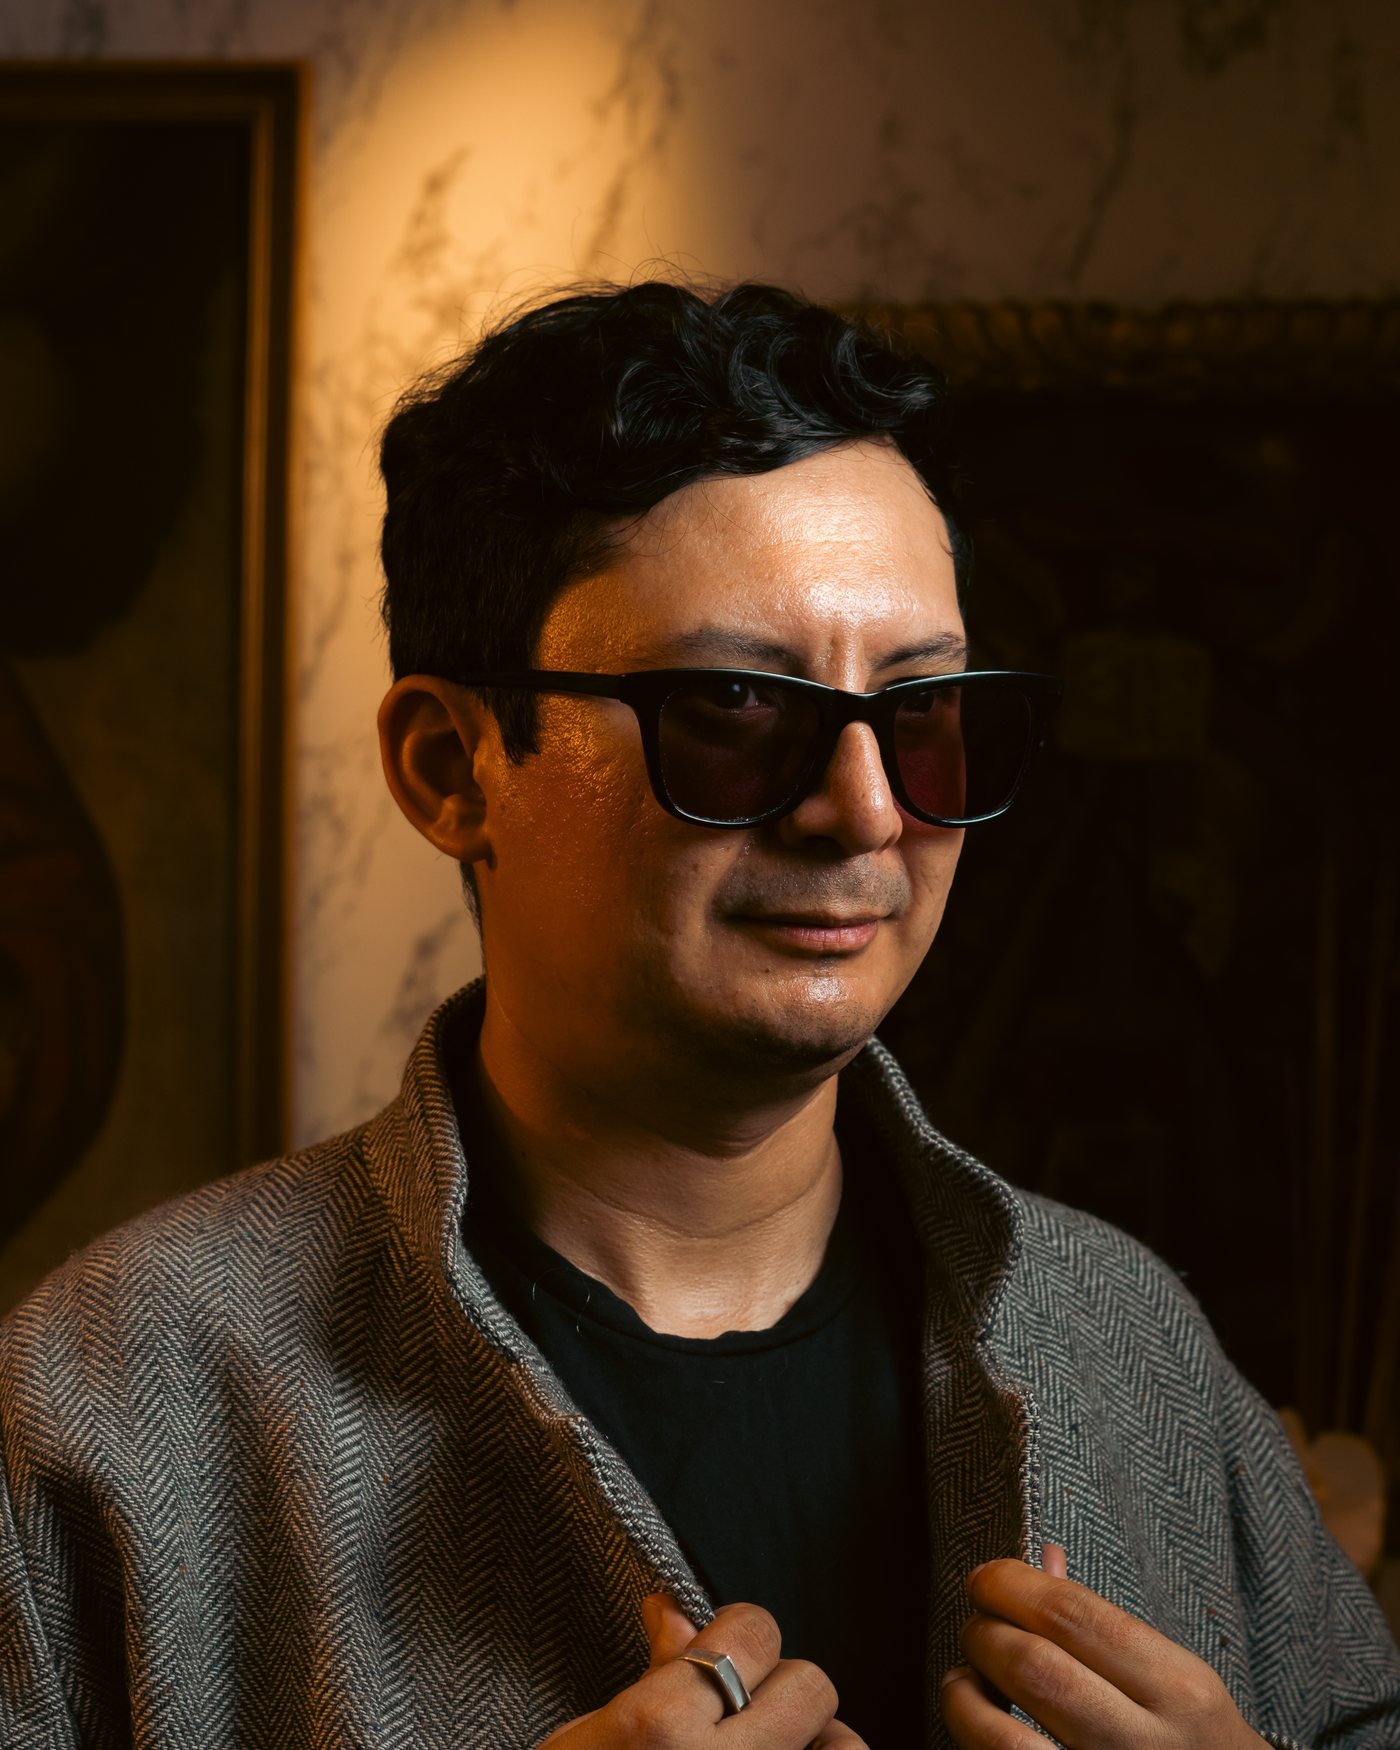
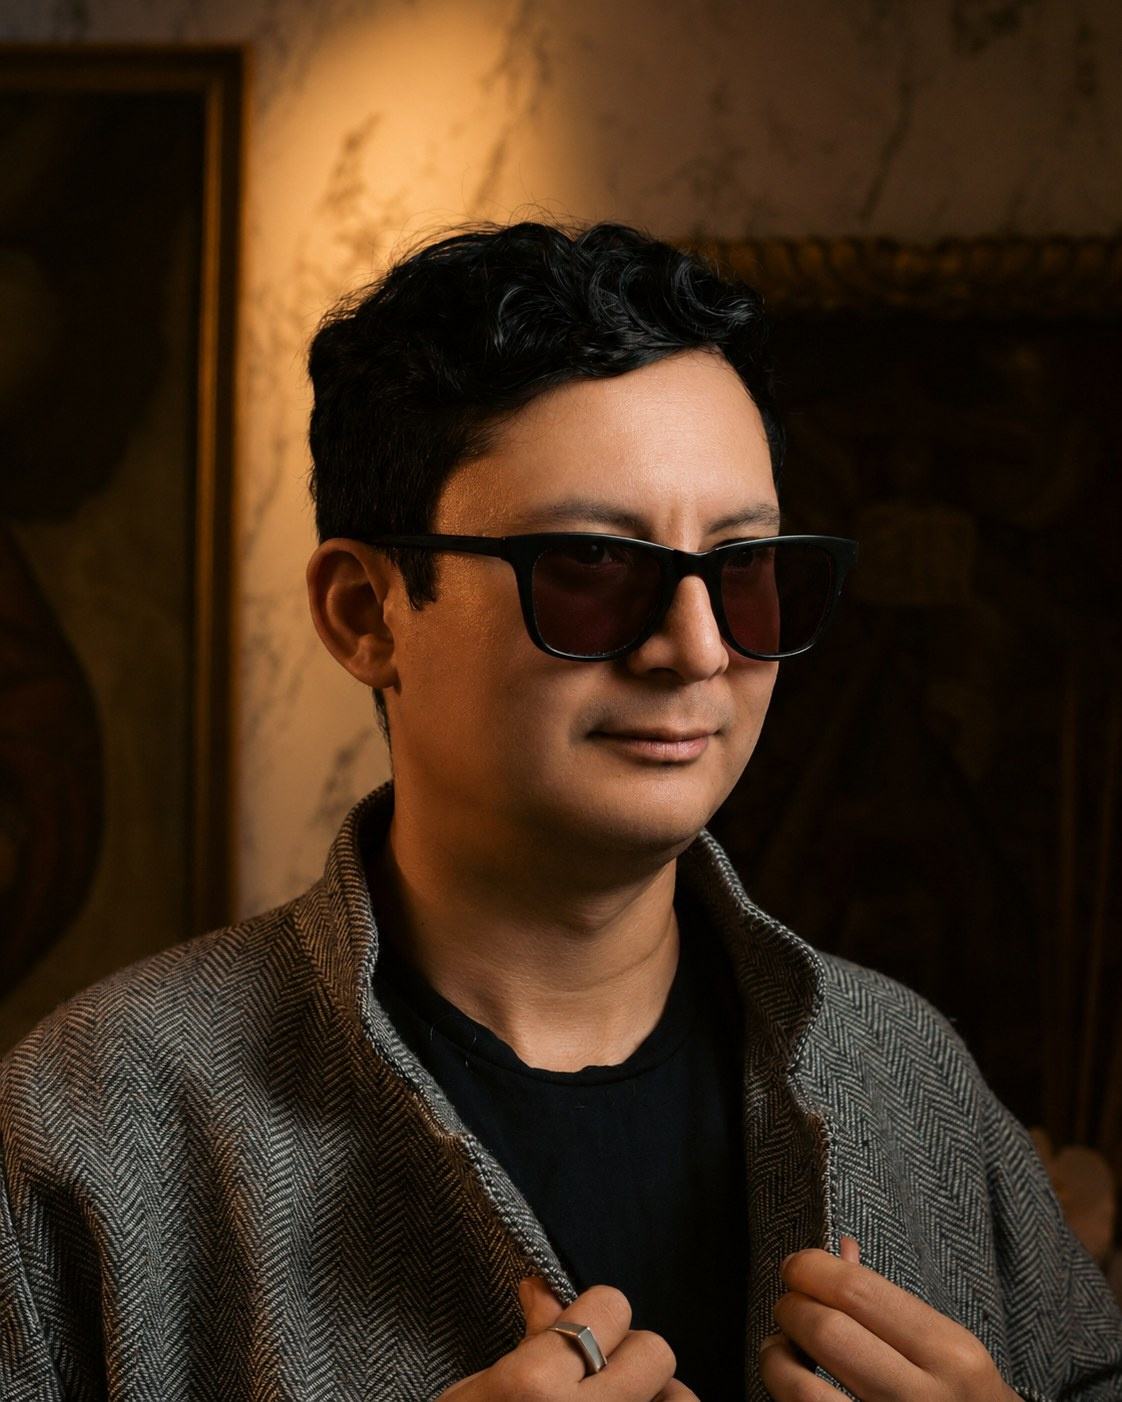
Gian pone cara nueva, y el estudio celular, domicilio legal y redes
Cuatro datos que hasta ahora eran de relleno pasan a ser los reales.

FOTO DEL FUNDADOR. Entra el retrato nuevo que paso el estudio
(Nosotros_Gian-Jimenez_Fundador.png) en img/gian.jpg, que es el nombre que
pide src("gian") en app.js. El original llega en PNG de 2,2 MB y se convierte
a JPEG de calidad 88, progresivo: 238 KB, en la linea de los 290 KB que
pesaba el anterior. Llega a 1122x1402, o sea 4:5 clavado, que es justo el
aspect-ratio que declara .fu-foto, asi que el object-fit:cover no recorta
nada y el encuadre se respeta entero.

CELULAR. El +51 900 000 000 del bloque de contacto era un marcador de
posicion. Pasa a +51 920 775 559 y ademas se vuelve pulsable contra
wa.me/51920775559: el dato estaba bajo el rotulo WhatsApp y no llevaba a
WhatsApp. Se subraya en oro solo al pasar por encima, sin cambiarle el color,
para no romper la columna de datos.

DOMICILIO LEGAL. Ca. Las Bellisimas 170, Urb. Vipol, Callao 07036 entra en el
colofon del pie y en ningun otro sitio. Es un dato registral, no una
direccion de visita, asi que no toca el bloque Oficina de Contacto ni la
linea del pie ni la cinta de avisos, que siguen diciendo Av. Arenales, Lince,
y no lleva enlace a mapas: nadie deberia acabar en Callao buscando el
estudio. Sale de la caja alta del colofon con .colo-legal, porque una
direccion en versalitas apretadas no hay quien la lea.

REDES. Instagram y TikTok dejan de apuntar a "#". Se guardan las direcciones
[…]

diff --git a/css/giandeco.css b/css/giandeco.css
@@ -923,6 +923,12 @@ h1,h2,h3,h4{
 .cont-datos dd{margin:0;font-family:var(--display);font-size:1.3rem;font-weight:var(--peso-display);color:var(--txt)}
 .cont-datos dd small{display:block;font-family:var(--sans);font-size:var(--t-sm);color:var(--txt3);
   letter-spacing:0;margin-top:.2rem}
+/* El WhatsApp es lo unico pulsable de la lista: se subraya al pasar por
+   encima para que se note, sin pintarlo de otro color y romper la columna. */
+.cont-datos dd .dato-enlace{text-decoration:underline;text-decoration-color:transparent;
+  text-underline-offset:.18em;transition:text-decoration-color .2s}
+.cont-datos dd .dato-enlace:hover,
+.cont-datos dd .dato-enlace:focus-visible{text-decoration-color:var(--oro)}
 
 /* ---------- 14. producto ------------------------------------------------- */
 
@@ -1356,6 +1362,10 @@ footer{border-top:1px solid var(--line);background:var(--bg2);margin-top:clamp(3
 .colo{display:flex;align-items:center;justify-content:space-between;gap:1.2rem;flex-wrap:wrap;
   padding-block:1.4rem;border-top:1px solid var(--line2);
   font-family:var(--sans);font-size:var(--t-xs);letter-spacing:.14em;color:var(--txt3);text-transform:uppercase}
+/* El domicilio legal es un dato registral, no un reclamo: sale de la caja
+   alta y del espaciado del colofon porque una direccion en versalitas
+   apretadas no se lee, y esta justamente para poder leerse. */
+.colo-legal{text-transform:none;letter-spacing:.02em}
 
 /* ---------- 23. barra de progreso ---------------------------------------- */
 
@@ -1963,4 +1973,5 @@ footer{border-top:1px solid var(--line);background:var(--bg2);margin-top:clamp(3
 #v-cat.campana .pc{background:var(--lienzo-camp)}
 #v-cat.campana .pc .pr{color:var(--oro)}
 #v-cat.campana .sub-c[aria-pressed="true"]{border-color:var(--verde)}
-
+
+

diff --git a/claro.html b/claro.html
@@ -12,7 +12,7 @@
 <link rel="preconnect" href="https://fonts.googleapis.com" />
 <link rel="preconnect" href="https://fonts.gstatic.com" crossorigin />
 <link rel="stylesheet" href="https://fonts.googleapis.com/css2?family=Cormorant+Garamond:wght@300;400;500;600&family=Inter:wght@400;500;600&display=swap" />
-<link rel="stylesheet" href="css/giandeco.css?v=6c3746eb" />
+<link rel="stylesheet" href="css/giandeco.css?v=4cc71e6b" />
 </head>
 <body>
 
@@ -751,7 +751,7 @@
         </div>
         <div>
           <dt>WhatsApp</dt>
-          <dd>+51 900 000 000<small>Lunes a sábado, 9 a 19 h</small></dd>
+          <dd><a class="dato-enlace" href="https://wa.me/51920775559" target="_blank" rel="noopener noreferrer">+51 920 775 559</a><small>Lunes a sábado, 9 a 19 h</small></dd>
         </div>
         <div>
           <dt>Profesionales</dt>
@@ -803,6 +803,7 @@
     </div>
     <div class="colo">
       <span>© 2026 Giandeco Studio Design</span>
+      <span class="colo-legal">Domicilio legal: Ca. Las Bellísimas 170, Urb. Vipol, Callao 07036, Perú</span>
       <span>Maqueta de presentación — precios y fichas de ejemplo</span>
     </div>
   </div>
@@ -820,7 +821,7 @@
   </div>
 </aside>
 
-<script src="js/datos.js?v=6c3746eb"></script>
-<script src="js/app.js?v=6c3746eb"></script>
+<script src="js/datos.js?v=4cc71e6b"></script>
+<script src="js/app.js?v=4cc71e6b"></script>
 </body>
 </html>

diff --git a/index.html b/index.html
@@ -12,7 +12,7 @@
 <link rel="preconnect" href="https://fonts.googleapis.com" />
 <link rel="preconnect" href="https://fonts.gstatic.com" crossorigin />
 <link rel="stylesheet" href="https://fonts.googleapis.com/css2?family=Cormorant+Garamond:wght@300;400;500;600&family=Inter:wght@400;500;600&display=swap" />
-<link rel="stylesheet" href="css/giandeco.css?v=6c3746eb" />
+<link rel="stylesheet" href="css/giandeco.css?v=4cc71e6b" />
 </head>
 <body>
 
@@ -751,7 +751,7 @@
         </div>
         <div>
           <dt>WhatsApp</dt>
-          <dd>+51 900 000 000<small>Lunes a sábado, 9 a 19 h</small></dd>
+          <dd><a class="dato-enlace" href="https://wa.me/51920775559" target="_blank" rel="noopener noreferrer">+51 920 775 559</a><small>Lunes a sábado, 9 a 19 h</small></dd>
         </div>
         <div>
           <dt>Profesionales</dt>
@@ -803,6 +803,7 @@
     </div>
     <div class="colo">
       <span>© 2026 Giandeco Studio Design</span>
+      <span class="colo-legal">Domicilio legal: Ca. Las Bellísimas 170, Urb. Vipol, Callao 07036, Perú</span>
       <span>Maqueta de presentación — precios y fichas de ejemplo</span>
     </div>
   </div>
@@ -820,7 +821,7 @@
   </div>
 </aside>
 
-<script src="js/datos.js?v=6c3746eb"></script>
-<script src="js/app.js?v=6c3746eb"></script>
+<script src="js/datos.js?v=4cc71e6b"></script>
+<script src="js/app.js?v=4cc71e6b"></script>
 </body>
 </html>

diff --git a/oscuro.html b/oscuro.html
@@ -12,7 +12,7 @@
 <link rel="preconnect" href="https://fonts.googleapis.com" />
 <link rel="preconnect" href="https://fonts.gstatic.com" crossorigin />
 <link rel="stylesheet" href="https://fonts.googleapis.com/css2?family=Cormorant+Garamond:wght@300;400;500;600&family=Inter:wght@400;500;600&display=swap" />
-<link rel="stylesheet" href="css/giandeco.css?v=6c3746eb" />
+<link rel="stylesheet" href="css/giandeco.css?v=4cc71e6b" />
 </head>
 <body>
 
@@ -751,7 +751,7 @@
         </div>
         <div>
           <dt>WhatsApp</dt>
-          <dd>+51 900 000 000<small>Lunes a sábado, 9 a 19 h</small></dd>
+          <dd><a class="dato-enlace" href="https://wa.me/51920775559" target="_blank" rel="noopener noreferrer">+51 920 775 559</a><small>Lunes a sábado, 9 a 19 h</small></dd>
         </div>
         <div>
           <dt>Profesionales</dt>
@@ -803,6 +803,7 @@
     </div>
     <div class="colo">
       <span>© 2026 Giandeco Studio Design</span>
+      <span class="colo-legal">Domicilio legal: Ca. Las Bellísimas 170, Urb. Vipol, Callao 07036, Perú</span>
       <span>Maqueta de presentación — precios y fichas de ejemplo</span>
     </div>
   </div>
@@ -820,7 +821,7 @@
   </div>
 </aside>
 
-<script src="js/datos.js?v=6c3746eb"></script>
-<script src="js/app.js?v=6c3746eb"></script>
+<script src="js/datos.js?v=4cc71e6b"></script>
+<script src="js/app.js?v=4cc71e6b"></script>
 </body>
 </html>

diff --git a/js/datos.js b/js/datos.js
@@ -752,13 +752,13 @@ var AVISOS = [
    de 1.3, remates redondos— en vez de pegar los logotipos oficiales, que
    llegan cada uno con su peso y su relleno y ensucian el pie.
 
-   Las direcciones están pendientes: hay que pedírselas al estudio.
+   Facebook queda fuera hasta que el estudio pase su dirección: un icono que
+   no lleva a ninguna parte pesa más que la red que falta.
    ------------------------------------------------------------------------ */
 
 var REDES = [
-  {id:"instagram", nombre:"Instagram", url:"#"},
-  {id:"facebook",  nombre:"Facebook",  url:"#"},
-  {id:"tiktok",    nombre:"TikTok",    url:"#"}
+  {id:"instagram", nombre:"Instagram", url:"https://www.instagram.com/giandeco_studio"},
+  {id:"tiktok",    nombre:"TikTok",    url:"https://www.tiktok.com/@giandeco_studio"}
 ];
 
 var ICONO_RED = {
